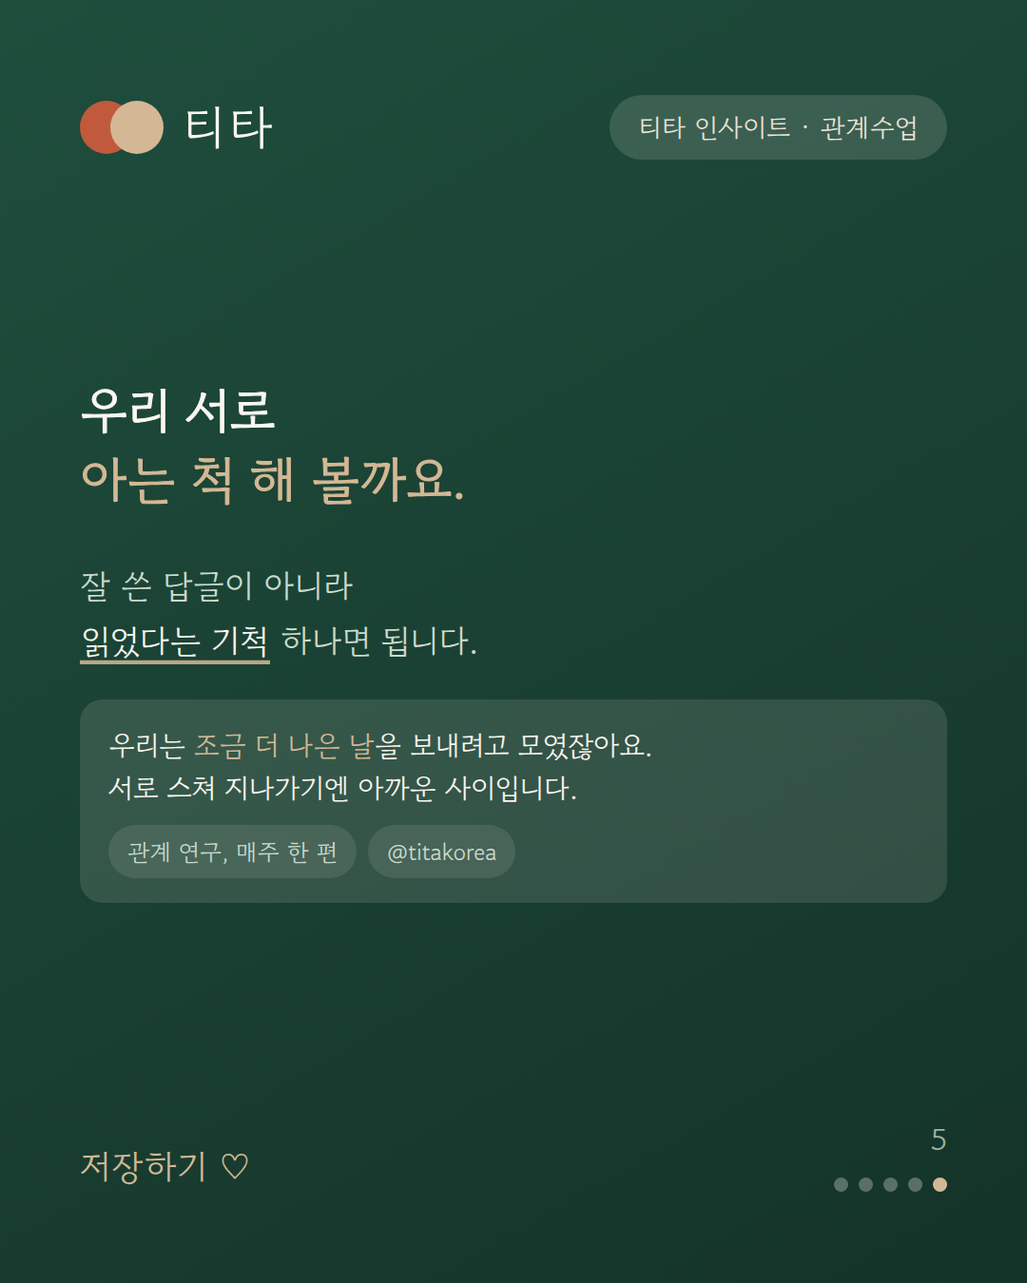
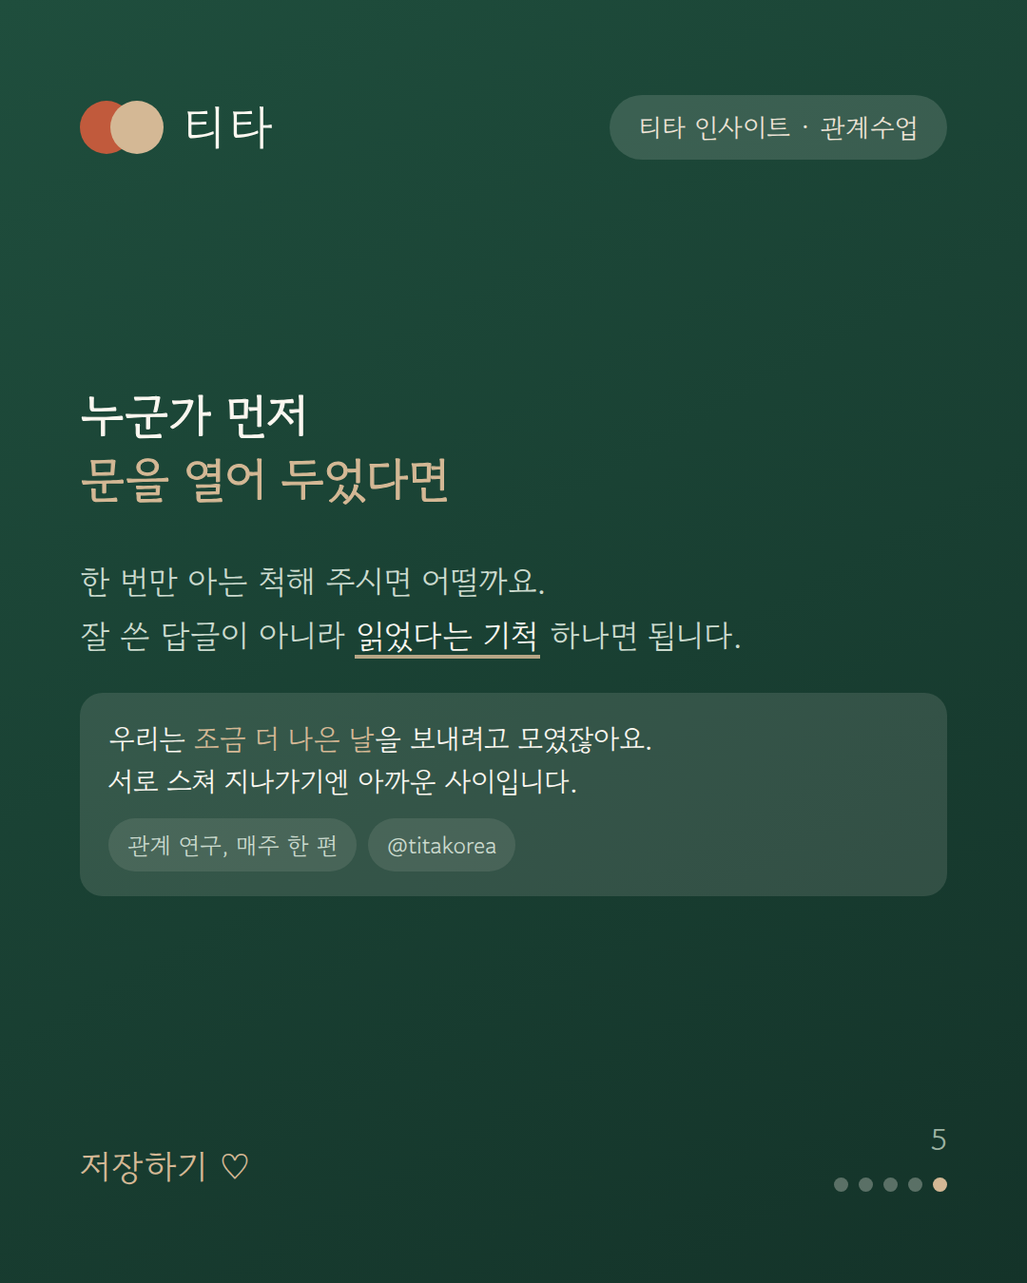
feat(blog): 인사이트 14를 '모른 척한 게 아니었습니다'로 다시 쓴다
훅을 '알면서 모르는 척한다'는 통념으로 잡았다. 이게 '공감이 줄었다'보다
나은 건 마음이 있다는 걸 이미 전제하기 때문이다. 글의 반전(안 나선 사람들이
오히려 떨고 있었다)과 처음부터 같은 편이라 훅과 근거가 한 장면으로 붙는다.

자료 둘을 더했다. 밀그램(1970)은 도시에서 덜 반응하는 게 냉정함이 아니라
과부하라는 걸 보여주고, 이것도 인터넷 이전이라 '요즘 탓' 반박을 한 번 더
받친다. Vu 외(2023)는 일부러 모른 척하는 동기가 좋은 자기 이미지를 지키려는
데 있다고 본다. 결론만 보면 독자를 나무라는 자료 같지만 뒤집으면 편드는
자료다.

마무리는 정체성으로 부르고 곧바로 작은 행동을 붙인다. 칭찬만 하고 끝내면
도덕적 면허 효과로 오히려 아무것도 안 하게 된다.

카드를 블로그용(5장)과 인스타용(7장)으로 나눴다. 인스타 카드는 혼자 서야
하고 캡션이 잘 안 읽히므로 근거와 숫자를 카드 안에 담았다.

Claude-Session: https://claude.ai/code/session_01SVoaR1M7XWjiBzTKquaj1d

Changed region(s): [[0.0611, 0.4356, 0.9167, 0.6222], [0.0917, 0.6533, 0.9167, 0.7156], [0.0611, 0.28, 0.4583, 0.4044]]

diff --git a/src/app/blog/posts.ts b/src/app/blog/posts.ts
@@ -62,31 +62,35 @@ export interface BlogPost {
 export const POSTS: BlogPost[] = [
   {
     slug: "why-no-one-replies",
-    title: "무심해서가 아닙니다 — 다들 첫 번째가 되기 어려울 뿐입니다",
+    title: "모른 척한 게 아니었습니다",
     description:
-      "요즘 사람들이 정이 없어진 걸까요. 1968년 실험은 정반대를 말합니다. 나서지 않은 사람들은 무심하지 않았고, 오히려 나선 사람들보다 더 갈등하고 있었습니다.",
+      "요즘은 다들 알면서 모르는 척한다고들 합니다. 그런데 1968년 실험은 정반대를 말합니다. 나서지 않은 사람들은 태연하지 않았고, 오히려 나선 사람들보다 더 떨고 있었습니다.",
     date: "2026-08-10",
     category: "관계 인사이트",
     tags: [
       "5060",
       "관계",
+      "공감",
       "커뮤니티",
       "방관자 효과",
       "다원적 무지",
-      "대화",
       "인간관계",
       "심리학",
     ],
     cover: "/blog/insight-14/card-1.png",
-    readingMinutes: 6,
+    readingMinutes: 7,
     body: [
       {
         type: "p",
-        text: "요즘은 다들 정이 없어졌다고들 합니다. 예전엔 이웃끼리 문을 열어 놓고 지냈는데 지금은 엘리베이터에서 눈도 안 마주친다고요.",
+        text: "요즘은 다들 알면서 모르는 척한다고들 합니다.",
       },
       {
         type: "p",
-        text: "모임에 나가 봐도 비슷합니다. 각자 자기 얘기만 하다 헤어집니다. 마음먹고 올린 글에는 아무 답이 없습니다. 그럴 때면 **사람들이 변했나 보다** 싶어집니다.",
+        text: "도움이 필요해 보이는 사람이 있어도 못 본 듯 지나갑니다. 누가 어렵게 힘든 얘기를 꺼내면 잠깐 조용해졌다가 화제가 바뀝니다. 분명히 봤고 분명히 들었는데, 아무 일도 없던 것처럼 넘어갑니다.",
+      },
+      {
+        type: "p",
+        text: "그럴 때면 **사람들이 변했나 보다** 싶어집니다.",
       },
       {
         type: "p",
@@ -95,7 +99,7 @@ export const POSTS: BlogPost[] = [
       {
         type: "image",
         src: "/blog/insight-14/card-1.png",
-        alt: "요즘 사람들이 정이 없어진 게 아니라 1968년에도 똑같았다는 티타 인사이트 카드",
+        alt: "알면서 모르는 척하는 일이 1968년에도 똑같았다는 티타 인사이트 카드",
         caption: "티타 인사이트 · 관계수업 #14",
       },
       { type: "h2", text: "1968년에도 똑같았습니다" },
@@ -108,14 +112,18 @@ export const POSTS: BlogPost[] = [
         text: "이 실험이 발표된 게 **1968년**입니다. 스마트폰도, 인터넷도 없던 때입니다. 지금 “요즘 사람들”이라 불리는 이들의 부모, 그 위 세대가 실험 참가자였습니다.",
       },
       {
-        type: "callout",
-        text: "여럿이 있으면 아무도 나서지 않는 건, 요즘 사람이 되어서 생긴 일이 아닙니다.",
+        type: "p",
+        text: "2년 뒤에는 이런 연구도 나왔습니다. 도시 사람들이 서로에게 덜 반응하는 건 **냉정해서가 아니라 감당할 양을 넘어서기 때문**이라는 겁니다. 하루에 스치는 얼굴이 너무 많으니 사람의 신경이 알아서 걸러 냅니다. 실제로 통근길 승객들에게 물으니 **얼굴을 아는 사람은 평균 네 명인데, 말을 걸어 본 사람은 한두 명**이었습니다. 알아보면서도 모른 채 지나가고 있었던 겁니다.",
       },
-      { type: "h2", text: "그런데 진짜 발견은 그다음이었습니다" },
+      {
+        type: "callout",
+        text: "알면서 지나치는 건 요즘 사람이 되어서 생긴 일이 아닙니다. 반세기 전에 이미 그랬습니다.",
+      },
+      { type: "h2", text: "그런데 안 나선 사람들은 떨고 있었습니다" },
       {
         type: "image",
         src: "/blog/insight-14/card-2.png",
-        alt: "나서지 않은 참가자들이 무심한 게 아니라 갈등하고 있었다는 1968년 실험 결과 티타 인사이트 카드",
+        alt: "나서지 않은 참가자들이 무심한 게 아니라 끝까지 망설이고 있었다는 1968년 실험 결과 티타 인사이트 카드",
         caption: "Darley & Latané (1968)",
       },
       {
@@ -128,11 +136,11 @@ export const POSTS: BlogPost[] = [
       },
       {
         type: "p",
-        text: "당시 언론은 “사람들이 냉담해졌다”고 썼습니다. 두 연구자는 그 해석을 정면으로 반박했습니다. **냉담한 게 아니라 갈등하고 있는 것**이고, 무관심으로 부르는 순간 그 행동에 면죄부를 주는 셈이라고요.",
+        text: "당시 언론은 “사람들이 냉담해졌다”고 썼습니다. 두 연구자는 그 해석을 정면으로 반박했습니다. **냉담한 게 아니라 갈피를 못 잡고 있는 것**이고, 무관심으로 불러 버리면 오히려 그 행동에 면죄부를 주는 셈이라고요.",
       },
       {
         type: "callout",
-        text: "무심해서 가만있었던 게 아닙니다. 마음은 있는데 몸이 안 움직인 겁니다.",
+        text: "모른 척한 게 아니었습니다. 어쩔 줄 몰라 굳어 있었던 겁니다.",
       },
       { type: "h2", text: "다들 서로의 눈치를 보고 있었습니다" },
       {
@@ -151,25 +159,37 @@ export const POSTS: BlogPost[] = [
       },
       {
         type: "p",
-        text: "모임에서 아무도 먼저 말을 안 거는 자리, 글에 아무도 답을 안 다는 자리가 꼭 이렇습니다. **다들 마음은 있는데, 남들이 조용하니 내가 나설 자리가 아닌가 보다 하고 접습니다.** 그 조용함이 다시 다음 사람을 접게 만듭니다.",
+        text: "모임에서 아무도 먼저 말을 안 거는 자리가 꼭 이렇습니다. **모른 척하기로 마음먹은 사람은 아무도 없습니다.** 다들 남들이 조용하니 내가 나설 자리가 아닌가 보다 하고 접을 뿐입니다. 그 조용함이 다시 다음 사람을 접게 만듭니다.",
       },
       {
         type: "callout",
-        text: "정이 없어 보이는 자리는, 다들 마음을 숨긴 채 서로를 살피고 있는 자리일 수 있습니다.",
+        text: "무심해 보이는 자리는, 다들 마음을 숨긴 채 서로를 살피고 있는 자리일 수 있습니다.",
       },
-      { type: "h2", text: "읽는 사람은 원래 훨씬 많습니다" },
+      { type: "h2", text: "모른 척하는 것도, 좋은 사람이고 싶어서입니다" },
       {
         type: "p",
-        text: "온라인 모임의 참여도 고르게 나뉘지 않습니다. 널리 쓰이는 기준선이 **90 : 9 : 1** 입니다. 90%는 읽기만 하고, 9%는 가끔 한마디 보태고, **1%가 거의 모든 글을 씁니다.** 커뮤니티에 따라 완만해지기도 하지만 기울기가 가파르다는 건 어디서나 비슷합니다.",
+        text: "그래도 일부러 눈을 돌리는 경우는 있지 않을까요. 있습니다. 그런데 그 이유가 뜻밖이었습니다.",
       },
       {
         type: "p",
-        text: "그러니 답글이 없다고 아무도 안 읽은 게 아닙니다. **읽은 사람 대부분은 원래 아무 흔적도 남기지 않습니다.**",
+        text: "연구자들이 3만 건이 넘는 선택을 모아 분석했습니다. 사람들에게 **자기 선택이 남에게 어떤 영향을 주는지 알아볼 기회**를 주었더니, **열에 넷은 알아보지 않는 쪽을 골랐습니다.**",
       },
-      { type: "h2", text: "이름을 부르면 된다길래 해 봤습니다" },
       {
         type: "p",
-        text: "온라인에서도 같은 일이 일어나는지 확인한 연구가 있습니다. 심리학자 패트릭 마키는 실제 채팅방에 들어가 “누구든 좀 알려 주실래요?” 하고 묻고, 방에 있는 사람 수와 답이 오기까지 걸린 시간을 쟀습니다. **사람이 많은 방일수록 답이 늦게 왔습니다.** 여기에 해법도 붙어 있었습니다. **특정한 사람의 이름을 넣어 물으면** 인원수와 상관없이 답이 왔다는 겁니다.",
+        text: "무관심해서가 아니었습니다. **좋은 사람으로 남고 싶어서**였습니다. 알아 버리면 도와야 합니다. 알고도 안 도우면 나쁜 사람이 됩니다. 그래서 아예 안 보는 쪽을 고릅니다.",
+      },
+      {
+        type: "callout",
+        text: "모른 척하는 행동의 밑바닥에도 좋은 사람이고 싶은 마음이 깔려 있습니다.",
+      },
+      { type: "h2", text: "온라인도 다르지 않습니다" },
+      {
+        type: "p",
+        text: "온라인 모임의 참여도 고르게 나뉘지 않습니다. 널리 쓰이는 기준선이 **90 : 9 : 1** 입니다. 90%는 읽기만 하고, 9%는 가끔 한마디 보태고, **1%가 거의 모든 글을 씁니다.** 그러니 답글이 없다고 아무도 안 읽은 게 아닙니다. **읽은 사람 대부분은 원래 아무 흔적도 남기지 않습니다.**",
+      },
+      {
+        type: "p",
+        text: "해법을 찾은 연구도 있었습니다. 심리학자 패트릭 마키는 실제 채팅방에서 방에 있는 사람 수와 답이 오기까지 걸린 시간을 쟀는데, **사람이 많은 방일수록 답이 늦게 왔습니다.** 그런데 **특정한 사람의 이름을 넣어 물으면** 인원수와 상관없이 답이 왔습니다.",
       },
       {
         type: "p",
@@ -177,7 +197,7 @@ export const POSTS: BlogPost[] = [
       },
       {
         type: "p",
-        text: "그러니 이건 **글을 쓰는 쪽에서 풀 수 있는 문제가 아닙니다.** 더 잘 쓴다고, 더 정확히 물어본다고 해결되지 않습니다. 다행히 다른 쪽에 답이 있었습니다.",
+        text: "그러니 이건 **글을 쓰는 쪽에서 풀 수 있는 문제가 아닙니다.** 다행히 다른 쪽에 답이 있었습니다.",
       },
       { type: "h2", text: "첫 한 줄이 다음을 부릅니다" },
       {
@@ -188,7 +208,7 @@ export const POSTS: BlogPost[] = [
       },
       {
         type: "p",
-        text: "2013년 **사이언스**에 실린 실험입니다. 연구팀은 한 커뮤니티 사이트에서 **10만 건이 넘는 글**을 대상으로, 글이 올라오자마자 **무작위로** 첫 반응을 달았습니다. 어떤 글에는 긍정 반응을, 어떤 글에는 부정 반응을, 어떤 글에는 아무것도 달지 않았습니다. **글의 내용과는 무관하게** 첫 반응만 조작한 것입니다.",
+        text: "2013년 **사이언스**에 실린 실험입니다. 연구팀은 한 커뮤니티 사이트에서 **10만 건이 넘는 글**을 대상으로, 글이 올라오자마자 **무작위로** 첫 반응을 달았습니다. **글의 내용과는 무관하게** 첫 반응만 조작한 것입니다.",
       },
       {
         type: "p",
@@ -202,47 +222,52 @@ export const POSTS: BlogPost[] = [
         type: "callout",
         text: "글이 좋아서 반응이 달리는 게 아니라, 반응이 달려서 반응이 달립니다. 그리고 그 시작은 딱 한 명입니다.",
       },
-      { type: "h2", text: "그 한 명이 되기가 제일 어렵습니다" },
+      { type: "h2", text: "아마 그런 분은 아닐 겁니다" },
+      {
+        type: "image",
+        src: "/blog/insight-14/card-5.png",
+        alt: "누군가 문을 열어 두었다면 한 번 아는 척해 달라는 티타 인사이트 카드",
+        caption: "@titakorea",
+      },
       {
         type: "p",
-        text: "읽고 마음이 움직였는데도 손이 멈추는 순간이 있습니다. **‘내가 뭐라고 아는 척을 하나.’ ‘이미 누가 답했겠지.’ ‘올린 지 좀 됐는데 지금 달면 이상한가.’** 그렇게 창을 닫습니다.",
+        text: "여기까지 읽으셨다면, 아마 모른 척하는 쪽은 아닐 겁니다. **읽고 마음이 움직였는데 손이 안 나갔던 쪽**에 가깝겠지요. ‘내가 뭐라고 아는 척을 하나.’ ‘이미 누가 답했겠지.’ ‘올린 지 좀 됐는데 지금 달면 이상한가.’ 그렇게 창을 닫아 본 적이 있으실 겁니다.",
       },
       {
         type: "p",
         text: "그 망설임은 대개 **배려에서 나옵니다.** 그런데 상대에게는 **무관심으로 읽힙니다.** 1968년 그 방에서 손을 떨며 앉아 있던 사람들과 같은 자리입니다. 각자 조용히 마음을 쓰다가, 서로를 무심하다고 오해합니다.",
       },
-      { type: "h2", text: "우리는 같은 마음으로 모였습니다" },
       {
-        type: "image",
-        src: "/blog/insight-14/card-5.png",
-        alt: "우리 서로 아는 척 해 볼까요 — 읽었다는 기척 하나면 된다는 티타 인사이트 카드",
-        caption: "@titakorea",
+        type: "p",
+        text: "그러니 오늘, **누군가 먼저 문을 열어 둔 자리가 보이면 한 번만 아는 척해 주시면 어떨까요.** 어렵게 꺼낸 이야기일수록 그렇습니다. 잘 쓴 답글이 아니라 **읽었다는 기척** 하나면 됩니다. 마땅한 말이 안 떠오르면 좋아요만 눌러도 되고, 올린 지 한참 된 글에 달아도 됩니다. **늦게 달린 한 줄이 대체로 가장 반갑습니다.**",
       },
       {
         type: "p",
-        text: "티타에 오신 이유는 다들 비슷할 겁니다. **조금 더 나은 날을 보내고 싶어서.** 조금 더 웃는 날이 많았으면 해서. 혼자 있는 시간이 길어져서. 대단한 걸 바라고 온 분은 없습니다.",
-      },
-      {
-        type: "p",
-        text: "그렇게 같은 마음으로 모인 사람들끼리 **서로를 스쳐 지나가는 건 아깝습니다.** 읽고 아무 기척 없이 창을 닫으면, 쓴 사람에게는 아무도 없던 자리가 됩니다.",
-      },
-      {
-        type: "p",
-        text: "그러니 오늘은 **서로 아는 척 한 번 해 볼까요.** 잘 쓴 답글이 아니라 읽었다는 기척 하나면 됩니다. 마땅한 말이 안 떠오르면 좋아요만 눌러도 되고, 올린 지 한참 된 글에 달아도 됩니다. **늦게 달린 한 줄이 대체로 가장 반갑습니다.**",
+        text: "티타에 오신 이유는 다들 비슷할 겁니다. **조금 더 나은 날을 보내고 싶어서.** 조금 더 웃는 날이 많았으면 해서. 그렇게 같은 마음으로 모인 사람들끼리 **서로를 스쳐 지나가는 건 아깝습니다.**",
       },
       {
         type: "quote",
-        text: "무심한 사람들이 모인 게 아니었습니다. 마음이 있는 사람들이 각자 두 번째를 기다리고 있었을 뿐입니다.",
+        text: "모른 척한 사람들이 모인 게 아니었습니다. 마음이 있는 사람들이 각자 두 번째를 기다리고 있었을 뿐입니다.",
       },
     ],
     sources: [
       {
         label:
-          "Darley & Latané, 「Bystander Intervention in Emergencies: Diffusion of Responsibility」 (Journal of Personality and Social Psychology, 1968) — 지켜보는 사람이 많을수록 나설 확률이 낮아졌다. 다만 나서지 않은 참가자들은 무관심하지 않았고, 오히려 더 큰 정서적 동요와 갈등을 보였다고 저자들은 기록했다",
+          "Darley & Latané, 「Bystander Intervention in Emergencies: Diffusion of Responsibility」 (Journal of Personality and Social Psychology, 1968) — 지켜보는 사람이 많을수록 나설 확률이 낮아졌다. 다만 나서지 않은 참가자들은 무관심하지 않았고, 오히려 더 큰 정서적 동요를 보였다고 저자들은 기록했다",
       },
       {
         label:
           "Latané & Darley, 「Group Inhibition of Bystander Intervention in Emergencies」 (Journal of Personality and Social Psychology, 1968) — 방에 연기가 차오를 때 혼자인 사람은 대부분 알렸지만 여럿이 있으면 훨씬 적게 알렸다. 서로의 무표정을 '별일 아님'으로 읽는 다원적 무지가 작동한다",
+      },
+      {
+        label:
+          "Stanley Milgram, 「The Experience of Living in Cities」 (Science, 1970) — 도시 생활의 자극 과부하에 적응하느라 사람들은 우선순위가 낮은 신호를 걸러 낸다. 통근 승객들은 얼굴을 아는 사람이 평균 네 명이었지만 말을 걸어 본 사람은 그보다 적었다",
+        url: "https://pubmed.ncbi.nlm.nih.gov/5415278/",
+      },
+      {
+        label:
+          "Vu, Soraperra, Leib, van der Weele & Shalvi, 「Ignorance by Choice」 (Psychological Bulletin, 2023) — 6,531명의 33,603건 선택을 모은 메타분석. 40%가 자기 선택이 남에게 미치는 영향을 알아볼 수 있는데도 알아보지 않기를 택했다. 저자들은 이를 좋은 자기 이미지를 지키려는 동기로 해석했다",
+        url: "https://www.apa.org/pubs/journals/releases/bul-bul0000398.pdf",
       },
       {
         label:
@@ -262,12 +287,16 @@ export const POSTS: BlogPost[] = [
     ],
     faq: [
       {
-        q: "요즘 사람들이 정말 정이 없어진 건가요?",
-        a: "그렇게 보기 어렵습니다. 지켜보는 사람이 많을수록 아무도 나서지 않는 방관자 효과는 1968년에 밝혀졌습니다. 인터넷도 스마트폰도 없던 시절입니다. 더구나 그 실험에서 나서지 않은 참가자들은 무관심하지 않았고, 오히려 나서서 도운 사람들보다 더 불안해하며 갈등했습니다. 사람이 변한 게 아니라, 여럿이 모이면 원래 이렇게 됩니다.",
+        q: "요즘 사람들이 알면서 모르는 척하는 게 늘어난 건가요?",
+        a: "늘었다고 보기는 어렵습니다. 지켜보는 사람이 많을수록 아무도 나서지 않는 방관자 효과는 1968년에 밝혀졌고, 도시에서 서로에게 덜 반응한다는 관찰도 1970년에 나왔습니다. 인터넷도 스마트폰도 없던 시절입니다. 사람이 변한 게 아니라, 여럿이 모이면 원래 이렇게 됩니다.",
       },
       {
         q: "나서지 않는 사람은 관심이 없는 건가요?",
-        a: "1968년 실험의 저자들은 정반대로 기록했습니다. 나서지 않은 참가자들이 보인 동요는 나설까 말까 하는 망설임이 끝나지 않았다는 뜻이고, 나선 사람들은 몸을 움직여 그 망설임을 끝낸 것이라고요. 마음이 없어서가 아니라 첫 번째가 되기 어려워서 멈추는 쪽에 가깝습니다.",
+        a: "1968년 실험의 저자들은 정반대로 기록했습니다. 나서지 않은 참가자들은 오히려 나서서 도운 사람들보다 더 불안해하고 손을 떨었고, 그 동요는 나설까 말까 하는 망설임이 끝나지 않았다는 뜻이라고요. 마음이 없어서가 아니라 첫 번째가 되기 어려워서 멈추는 쪽에 가깝습니다.",
+      },
+      {
+        q: "일부러 모른 척하는 경우도 있지 않나요?",
+        a: "있습니다. 다만 이유가 뜻밖입니다. 3만 건이 넘는 선택을 모은 2023년 메타분석에서 40%는 자기 선택이 남에게 미치는 영향을 알아볼 수 있는데도 알아보지 않기를 택했는데, 연구자들은 이를 좋은 사람이라는 자기 이미지를 지키려는 동기로 해석했습니다. 알면 도와야 하고 알고도 안 도우면 나쁜 사람이 되니 아예 안 보는 쪽을 고르는 것입니다.",
       },
       {
         q: "댓글 하나가 정말 차이를 만드나요?",

diff --git a/scripts/cards/README.md b/scripts/cards/README.md
@@ -1,27 +1,42 @@
 # 인사이트 카드 생성기
 
-인스타 캐러셀용 1080×1350 카드를 렌더한다. 블로그 글에 들어가는 인라인
-이미지도 같은 파일을 쓴다(`public/blog/insight-NN/card-N.png`).
+1080×1350 카드를 렌더한다. 쓰임이 둘이라 생성기도 둘이다.
+
+| 생성기 | 쓰임 | 장수 | 나가는 곳 |
+|---|---|---|---|
+| `gen-insight-cards.cjs` (블러시) / `gen-insight-cards-green.cjs` (딥그린) | 블로그 본문 인라인 | 5 | `public/blog/insight-NN/` |
+| `gen-insta-cards.cjs` | 인스타 캐러셀 | 7 | `assets/instagram/insight-NN/` |
+
+**왜 나눴나.** 블로그 카드는 이미 설명이 끝난 문단 옆에 놓이니 표제 한 줄이면
+족하다. 인스타 카드는 혼자 서야 하고, 캡션은 카드에 글이 있으면 잘 안 읽힌다.
+그래서 인스타 쪽에만 근거와 숫자를 `EX()` 박스로 카드 안에 넣고 장수를 늘렸다.
+인스타 카드는 사이트에 서빙할 필요가 없어 `public/` 바깥에 둔다.
 
 ## 실행
 
 ```bash
 cd scripts/cards
-npm i -g playwright        # 최초 1회 (헤드리스 크로미움 필요)
-node gen-insight-cards.cjs # 현재 폴더에 gd_cardN.png 생성
+npm i -g playwright   # 최초 1회 (헤드리스 크로미움 필요)
+
+node gen-insight-cards-green.cjs   # gd_cardN.png / i14_cardN.png
+node gen-insta-cards.cjs           # ig_cardN.png
 ```
 
-렌더한 뒤 `public/blog/insight-NN/`으로 옮긴다.
+렌더한 뒤 옮기고 임시 파일을 지운다.
 
 ```bash
-mkdir -p ../../public/blog/insight-12
-for i in 1 2 3 4 5; do cp gd_card$i.png ../../public/blog/insight-12/card-$i.png; done
+mkdir -p ../../public/blog/insight-14 ../../assets/instagram/insight-14
+for i in 1 2 3 4 5;     do cp i14_card$i.png ../../public/blog/insight-14/card-$i.png; done
+for i in 1 2 3 4 5 6 7; do cp ig_card$i.png  ../../assets/instagram/insight-14/card-$i.png; done
+rm -f _*.html *_card*.png
 ```
 
 ## 새 세트 만들 때
 
-`gen-insight-cards.cjs` 아래쪽 `cards` 배열만 갈아끼우면 된다.
-`H(크기, ...줄)`이 표제, `SUB(내용, 크기)`가 본문이다.
+아래쪽 `cards` 배열만 갈아끼우면 된다.
+`H(크기, ...줄)`이 표제, `SUB(내용, 크기)`가 본문, `EX([라벨, 내용], ...)`이
+인스타 카드의 근거 박스다. 장수를 바꾸면 `gen-insta-cards.cjs`의 `TOTAL`도
+같이 고쳐야 점 표시가 맞는다.
 
 ## 서체 — 고운돋움만 쓴다
 
@@ -36,6 +51,7 @@ for i in 1 2 3 4 5; do cp gd_card$i.png ../../public/blog/insight-12/card-$i.png
   자소 모양이 유지된다. 색이 다른 구간(`.o`)은 stroke 색도 같이 맞춰야
   테두리가 겉돌지 않는다.
 * 본문 강조는 `<b>` 대신 `<em>` — 밑줄형 옅은 형광 하이라이트로 처리한다.
+  `EX()` 박스 안에서만 `<b>`가 금색으로 뜬다(하이라이트가 겹치면 지저분해서).
 
 ## 렌더 실패 시
 
